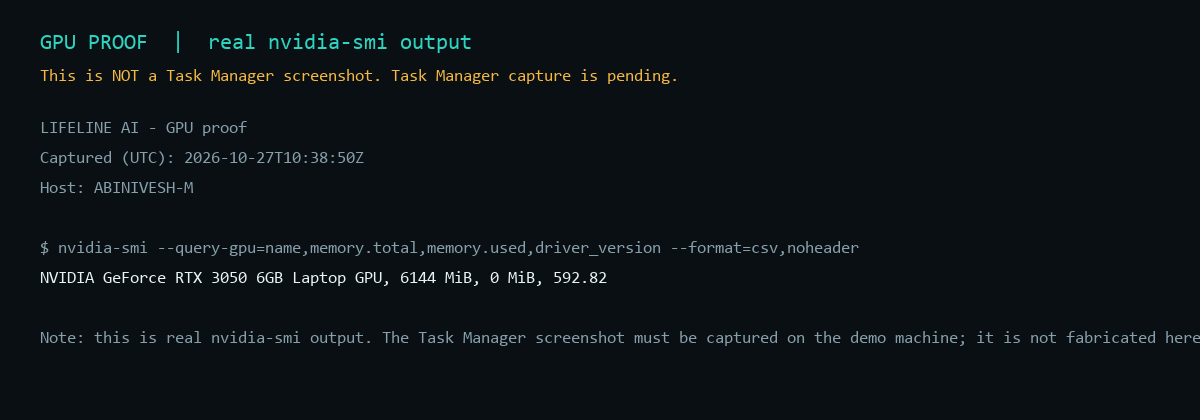
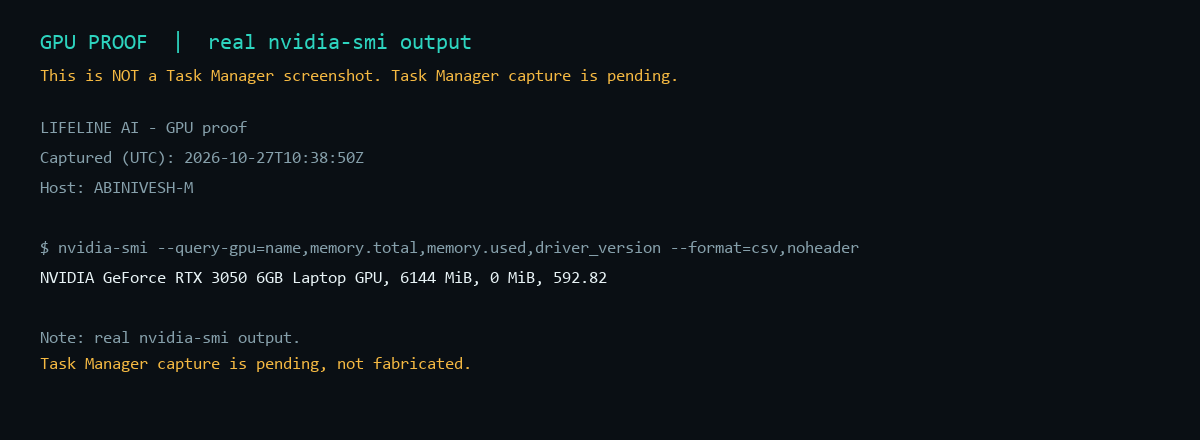
Add one-command proof capture script and document pending GPU/offline captures

diff --git a/README.md b/README.md
@@ -313,6 +313,19 @@ python agent.py --yes --mode policy         # graph + A* + allocator + gate + re
 Then turn on airplane mode and run it again. Screenshot `nvidia-smi`, the airplane-mode icon, and the
 run - that is the offline artefact. No model is downloaded and no Open Weight claim is made here.
 
+Proof captures live in `artifacts/proof/`:
+
+| File | Status |
+| --- | --- |
+| `nvidia_smi.txt` / `gpu_6gb_nvidia_smi.png` | real output: `NVIDIA GeForce RTX 3050 6GB Laptop GPU, 6144 MiB` |
+| `credit_usage_live.json` | snapshot of the live $150 ledger |
+| `gpu_6gb_taskmgr.png` | **capture needed** - Task Manager, `0.0/6.0 GB` |
+| `offline_proof.mp4` | **capture needed** - airplane mode + `LIFELINE_OFFLINE=1 python agent.py --yes` |
+| `baseten_proof.mp4` | **capture needed** - `python openweight.py`, 2/3 valid, 5.41 s and 6.73 s |
+
+The pending three need the desktop session that owns the GPU. They are labelled pending rather than
+generated, because a fabricated screenshot is the one artefact a judge can disprove in a minute.
+
 ### Image generation note (India)
 
 Muse Image is **not available in India** (HTTP 403 by region). Nothing in this project calls it. Visuals
